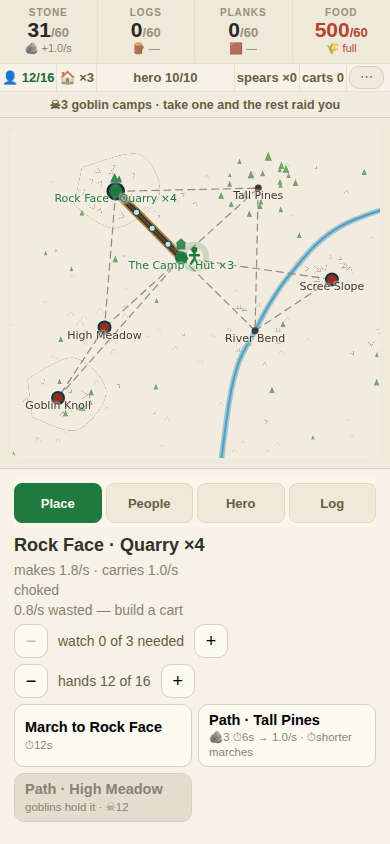
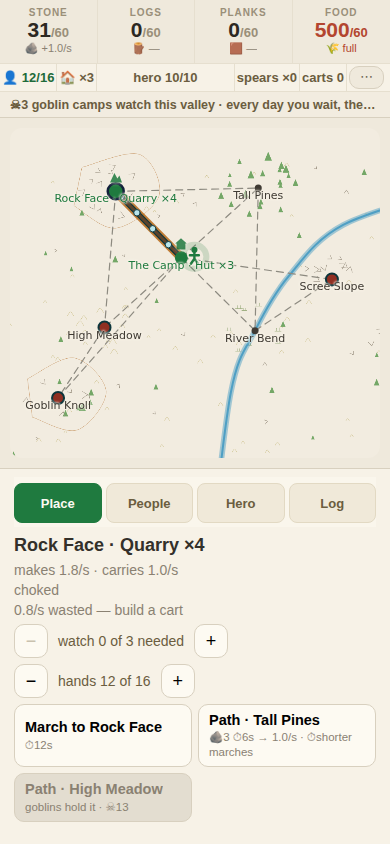
N3 and N4: the camps swell, and the rules stop being printed as rules
"What is my motivation then here? I will just sit here, and I will not
take any." And, on the next run: "I go on High Meadow. But what is there?
There's no point for me at all. It doesn't attack me. So what's the point
of me attacking them?"

They were reading the rules correctly, and that was the problem. Goblins
ignore a camp until you take something of theirs, so the optimal play was
to never start -- the game's own mechanics argued against playing it.

THE CAMPS SWELL NOW. Every holding's ceiling climbs toward double its
spawn over fifteen minutes, war or no war, and a camp left alone does not
merely heal back to where it was: it gets bigger. Waiting costs
something, taking ground early is worth more than taking it late, and
none of it is a raid on a camp that has no hero yet -- the opening is
exactly as gentle as it was.

⚠ IT STARTS AT ZERO, which is the load-bearing part. The solver tuned
every rung of the ladder against the current strengths, so a swell that
began above zero would silently invalidate all of it. The pressure is on
the CLOCK, not on the opening, and there is a test whose whole job is to
say so.

The clock runs while you are away and TAKES nothing -- docs/BRIEF.md,
timers bank work and never punish absence. You come back to a harder
valley, never a poorer one.

N4: "Six goblin camps, take one and the rest raid -- that is meta. We
should have a narrator somewhere, against meta leading into the user."
[…]

Changed region(s): [[0.0308, 0.0924, 0.9231, 0.154], [0.3385, 0.2464, 0.3692, 0.2773]]

diff --git a/src/camp/engine.ts b/src/camp/engine.ts
@@ -225,6 +225,32 @@ export function raidTarget(g: City, id: number): number | null {
  *  the race to keep up or the grind quietly becomes the optimal play at every
  *  rung. The solver test is what caught it, and what set this number. */
 export const GOBLIN_REGEN = 0.0075;
+/** ★★★ THE CAMPS SWELL — N3, 2026-08-11. The owner, twice over two
+ *  playthroughs: *"what is my motivation then here? I will just sit here, and
+ *  I will not take any."* and *"I go on High Meadow. But what is there?
+ *  There's no point for me at all. It doesn't attack me."*
+ *
+ *  They were reading the rules correctly, which was the problem. Goblins
+ *  ignore a camp until you take something of theirs — so the optimal play was
+ *  to never start, and the game's own mechanics argued for not playing it.
+ *
+ *  Now a holding you leave alone GROWS. Every camp's strength climbs toward
+ *  `SWELL_MAX` times its spawn over `SWELL_SECS`, whether or not the war has
+ *  started. Waiting is no longer free, taking ground early is worth more than
+ *  taking it late, and none of it is a raid on a camp that has no hero yet —
+ *  the opening stays as gentle as it was.
+ *
+ *  ⚠ IT STARTS AT ZERO, so every ladder number the solver tuned is exactly
+ *  what it was at the first minute. The pressure is on the CLOCK, not on the
+ *  opening. */
+export const SWELL_SECS = 900;
+export const SWELL_MAX = 1.0;
+/** How far the camps have swollen, 0 at the start and `SWELL_MAX` at most. */
+export const swellOf = (g: City): number =>
+  Math.min(SWELL_MAX, Math.max(0, g.since) / SWELL_SECS * SWELL_MAX);
+/** A holding's spawn strength today — its tuned strength, plus the swell. */
+export const spawnOf = (g: City, id: number): number =>
+  (GOBLINS[id]?.strength ?? 12) * (1 + swellOf(g));
 /** What a holding regains a second — its own spawn strength times the
  *  rate, so the ladder's own numbers set the pace. */
 export const regenOf = (id: number): number =>
@@ -329,6 +355,9 @@ export interface City {
    *  log."* Newest last, capped at `LOG_KEEP`. Strings, because they are
    *  written where the event happens and read nowhere else. */
   log: string[];
+  /** ★★★ SECONDS THE VALLEY HAS STOOD — N3, 2026-08-11. The camps swell on
+   *  this clock, which is what makes waiting cost something. */
+  since: number;
   /** ★★★ EXTRA HANDS HIRED ONTO A SITE'S WORKS — 2026-08-11. Site id → how
    *  many times its crew has been widened. */
   hire: Record<number, number>;
@@ -436,6 +465,7 @@ export const initial = (): City => ({
   stowing: null,
   hire: {},
   log: [],
+  since: 0,
   legacy: { runs: 0, spears: 0 },
   fight: null,
 });
@@ -1682,6 +1712,13 @@ export function apply(g: City, a: Action): City {
       const said: string[] = [];
       if (!(a.secs > 0) || g.lost) return g;
       const s = a.secs;
+      // ★ THE VALLEY'S OWN CLOCK (N3). Away ticks count too — the camps do not
+      // wait politely for you to look, and this is the one pressure in the
+      // game that is allowed to build while you are gone. It never TAKES
+      // anything (that is still the raids' job, and they still bank), so
+      // `docs/BRIEF.md` holds: you come back to a harder valley, never a
+      // poorer one.
+      const since = g.since + s;
       const f = flow(g);
       // The mills saw what arrives plus what is piled — integrated over the
       // tick, so an away-tick cannot saw planks from a pile that ran dry.
@@ -1796,7 +1833,10 @@ export function apply(g: City, a: Action): City {
       let goblins = g.goblins;
       for (const [idStr, left] of Object.entries(g.goblins)) {
         const id = Number(idStr);
-        const spawn = GOBLINS[id]?.strength ?? left;
+        // ★★★ THE CEILING RISES WITH THE CLOCK (N3) — see `spawnOf`. A camp
+        // you leave alone does not merely heal back to where it was, it gets
+        // bigger, which is what makes waiting cost something.
+        const spawn = GOBLINS[id] ? spawnOf(g, id) : left;
         if (g.fight?.site === id || left >= spawn) continue;
         if (goblins === g.goblins) goblins = { ...g.goblins };
         goblins[id] = Math.min(spawn, left + regenOf(id) * s);
@@ -1992,6 +2032,7 @@ export function apply(g: City, a: Action): City {
         store,
         stowing,
         log: logged(g.log, ...said),
+        since,
         // ★ ARRIVING ON HELD GROUND DRAWS THE SWORD. Done here rather than in
         // `march` because the arrival is a tick event, and the holding's
         // strength must be read at the moment they get there — not when they

diff --git a/test/campbuilder.test.ts b/test/campbuilder.test.ts
@@ -16,7 +16,7 @@ import { apply, initial, flow, shown, popCap, pathKey, costOf, pathCostOf, heroM
   FORAGE_SECS, FORAYS, nextForay, unforageable, faminePinch, START_FOOD, FAMINE_DEEP, onWatch,
   WALK_SECS, marchSecs, legsBetween, unmarchable, AMBUSH_TELL, MUSTER_SHOWS,
   walkSecs, ROUGH, SWEEP_SHARE, GUARD_STOP, guardsAt, STOW_SECS, hireCost, unhireable,
-  LEAVE_SECS, GROW_STORE, LOG_KEEP, logged,
+  LEAVE_SECS, GROW_STORE, LOG_KEEP, logged, swellOf, spawnOf, SWELL_SECS, SWELL_MAX,
   RATION_FOOD, RATION_HP, RATION_PACK,
   BLOW_SECS, blowLeft, SPEAR_NAME, SPEAR_MADE, spearLabel,
   HERO_HP, HEAL_SECS, WILD_FED, EAT, CAPTIVES,
@@ -2925,5 +2925,68 @@ describe('★★★ WHAT HAPPENED, WRITTEN DOWN', () => {
     expect(honour({ game: { ...war(), log: [1] } as never, savedAt: 1 })).toBeNull();
     const { log: _drop, ...older } = war();
     expect(honour({ game: older as City, savedAt: 1 })!.game.log).toEqual([]);
+  });
+});
+
+// ---------------------------------------------------------------------------
+// ★★★ N3 — A REASON TO GO, 2026-08-11. The owner, twice across two
+// playthroughs: *"what is my motivation then here? I will just sit here, and
+// I will not take any."* and *"I go on High Meadow. But what is there?
+// There's no point for me at all. It doesn't attack me."* They were reading
+// the rules correctly, which was the problem: goblins ignore a camp until you
+// take something, so the optimal play was to never start.
+// ---------------------------------------------------------------------------
+describe('★★★ THE CAMPS SWELL WHILE YOU WAIT', () => {
+  it('★★★ A HOLDING LEFT ALONE GROWS PAST ITS SPAWN', () => {
+    const g = initial();
+    expect(swellOf(g)).toBe(0);
+    expect(spawnOf(g, 4)).toBe(GOBLINS[4]!.strength);
+    const later = tick(g, SWELL_SECS / 2);
+    expect(swellOf(later)).toBeCloseTo(SWELL_MAX / 2, 6);
+    expect(spawnOf(later, 4)).toBeGreaterThan(GOBLINS[4]!.strength);
+    // ...and it really does heal up to the higher ceiling. ⚠ Through
+    // `catchUp`, not one giant tick: a tick reads the clock ONCE at its start
+    // (one Euler step, `STEP_SECS`), so a single two-hour step would swell by
+    // nothing at all and cap the holding at its old spawn. That is the same
+    // rule every other timer in this file obeys, and the reason `catchUp`
+    // exists.
+    const long = catchUp({ ...g, goblins: { 4: 1 } }, SWELL_SECS * 2);
+    expect(long.goblins[4]!).toBeGreaterThan(GOBLINS[4]!.strength);
+  });
+
+  it('★★★ IT STARTS AT ZERO, so the tuned ladder is untouched at minute one', () => {
+    // ⚠ This is why the pressure is on the clock and not on the opening: the
+    // solver tuned every rung against these numbers, and a swell that began
+    // above zero would silently invalidate all of it.
+    for (const id of [4, 5, 6, 7, 8, 9]) {
+      expect(spawnOf(initial(), id)).toBe(GOBLINS[id]!.strength);
+    }
+  });
+
+  it('★★ it stops climbing — a valley you neglect is harder, not impossible', () => {
+    const forever = tick(initial(), SWELL_SECS * 50);
+    expect(swellOf(forever)).toBe(SWELL_MAX);
+    expect(spawnOf(forever, 9)).toBeCloseTo(GOBLINS[9]!.strength * (1 + SWELL_MAX), 6);
+  });
+
+  it('★ the clock runs while you are away, but takes nothing', () => {
+    // `docs/BRIEF.md`: timers bank work, they never punish absence. A swollen
+    // valley is a harder valley, never a poorer one — the stores are exactly
+    // what an idle live run would have made.
+    const g: City = { ...initial(), stacks: { 0: 2, 1: 1 },
+      paths: { [pathKey(0, 1)]: 1 }, pop: 6 };
+    const away = catchUp(g, 3600);
+    const live = tick(g, 3600);
+    expect(away.since).toBeCloseTo(3600, 3);
+    expect(away.stone).toBeGreaterThan(g.stone);
+    expect(live.since).toBeCloseTo(away.since, 3);
+  });
+
+  it('★ the clock holds at the save door, and older saves start unswollen', () => {
+    expect(honour({ game: { ...initial(), since: 500 }, savedAt: 1 })!
+      .game.since).toBe(500);
+    expect(honour({ game: { ...initial(), since: -1 }, savedAt: 1 })).toBeNull();
+    const { since: _drop, ...older } = initial();
+    expect(honour({ game: older as City, savedAt: 1 })!.game.since).toBe(0);
   });
 });

diff --git a/src/ui/Camp.svelte b/src/ui/Camp.svelte
@@ -11,7 +11,7 @@
     raisingLeft, buildSecs, housed, blowLeft, spearLabel, SPEAR_MADE, SWEEP_SHARE,
     guardsAt, guardsTotal, GUARD_STOP, unhireable, hireCost,
     unforageable, nextForay, forageLeft, FORAGE_SECS, onWatch, RAID_SECS,
-    unmarchable, marchSecs, onWatchAt, MUSTER_SHOWS,
+    unmarchable, marchSecs, onWatchAt, MUSTER_SHOWS, swellOf, spawnOf,
     richOf, storeCost, roomOf, STORE_ROOM, cartCost, cartHaul, CARRY, CART_GAIN,
     raiders, raidTarget,
     windup, RATION_FOOD, RATION_HP, answerBite, uneatable, MEAL_FOOD, MEAL_HP,
@@ -958,12 +958,23 @@
           : game.hero.trip
             ? `${MARK.hero}→${SITE.get(game.hero.trip.to)?.name ?? ''}`
             : `${MARK.hero} ${SITE.get(game.hero.at)?.name ?? ''}`}
-        · {MARK.danger}{shownHoldings} camps left
+        · {MARK.danger}{shownHoldings} camps left{swellOf(game) > 0.02
+          ? ` · ${MARK.waste}+${Math.round(swellOf(game) * 100)}%` : ''}
       {:else if holdings > 0}
         <!-- ★ WHAT A HOLDING IS, not just how many. The owner: *"why holdings
              are with skull and bones is not quite well understood by me…
              What is a holding? They come once you take one — who comes?"* -->
-        {MARK.danger}{shownHoldings} goblin camps · take one and the rest raid you
+        <!-- ★★★ N4, 2026-08-11 — the owner: *"six goblin camps, take one and
+             the rest raid — that is meta. We should have a [narrator]
+             somewhere, against meta leading into the user."* The rules were
+             printed AS rules. They are said now, by the camp, about the
+             valley it is standing in. -->
+        {MARK.danger}{shownHoldings} goblin camps watch this valley
+        {#if swellOf(game) > 0.02}
+          · {MARK.waste}they grow {Math.round(swellOf(game) * 100)}% stronger
+        {:else}
+          · every day you wait, they grow
+        {/if}
       {:else}
         {MARK.danger}0 · the valley is yours
       {/if}

diff --git a/src/camp/store.ts b/src/camp/store.ts
@@ -128,6 +128,10 @@ export function honour(b: Blob | null | undefined): { game: City; savedAt: numbe
   // ★ THE STOREHOUSE'S HAMMER (2026-08-11), defaulted for older saves.
   // ★ HIRED CREWS (2026-08-11), defaulted for every older save.
   // ★ THE EVENT LOG (N2, 2026-08-11), defaulted for every older save.
+  // ★ THE VALLEY'S CLOCK (N3, 2026-08-11). Older saves start it at zero,
+  // which is generous — their camps have not swollen at all.
+  if (g.since === undefined) g.since = 0;
+  else if (!num(g.since, 0, 1e9)) return null;
   if (g.log === undefined || g.log === null) g.log = [];
   else if (!Array.isArray(g.log) || g.log.some((l: unknown) => typeof l !== 'string')) return null;
   else if (g.log.length > LOG_KEEP) g.log = g.log.slice(-LOG_KEEP);
